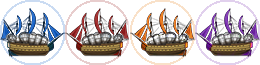
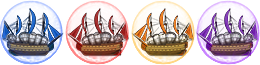
Changed the cloud movement a little

diff --git a/cannon.html b/cannon.html
@@ -508,9 +508,9 @@ function init() {
 					// main loop
 					g_game.world.Step(1/50,10,10);
 					this.attr({ x: this.physics.m_xf.position.x*g_game.worldScale });
-					g_game.cloudsSmall.attr({ x: -480 + (VIEW_WIDTH/2 - this.x)/4 });
+					g_game.cloudsSmall.attr({ x: -480 + (VIEW_WIDTH/2 - this.x)/16 });
 					g_game.cloudsMedium.attr({ x: -480 + (VIEW_WIDTH/2 - this.x)/8 });
-					g_game.cloudsLarge.attr({ x: -480 + (VIEW_WIDTH/2 - this.x)/16 });
+					g_game.cloudsLarge.attr({ x: -480 + (VIEW_WIDTH/2 - this.x)/4 });
 					
 					// body destruction
 					for (var i in g_game.objsForDestruction) {
@@ -599,11 +599,11 @@ function init() {
 
 		// clouds
 		g_game.cloudsSmall = Crafty.e('2D, ' + RENDERING_MODE + ', cloudsSmall')
-             .attr({x: -480, y: 380, z: 2})
+             .attr({x: -480, y: 500, z: 2})
 		g_game.cloudsMedium = Crafty.e('2D, ' + RENDERING_MODE + ', cloudsMedium')
-             .attr({x: -480, y: 260, z: 2})
+             .attr({x: -480, y: 405, z: 2})
 		g_game.cloudsLarge = Crafty.e('2D, ' + RENDERING_MODE + ', cloudsLarge')
-             .attr({x: -480, y: 80, z: 2})
+             .attr({x: -480, y: 220, z: 2})
 			
 			 
 		// boundaries
